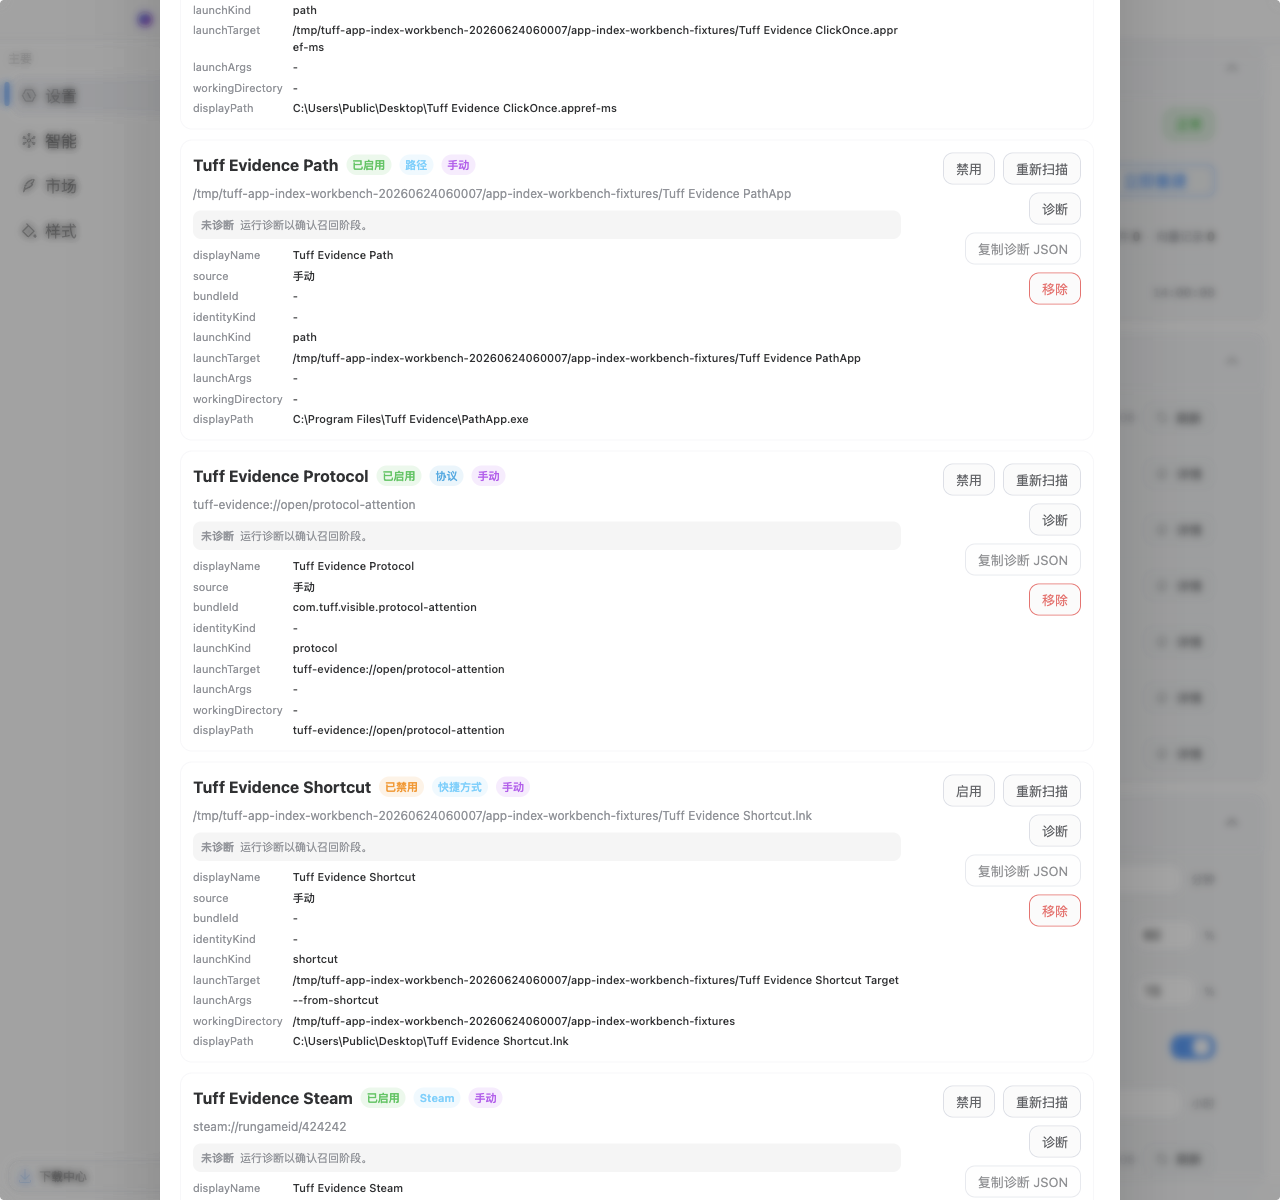
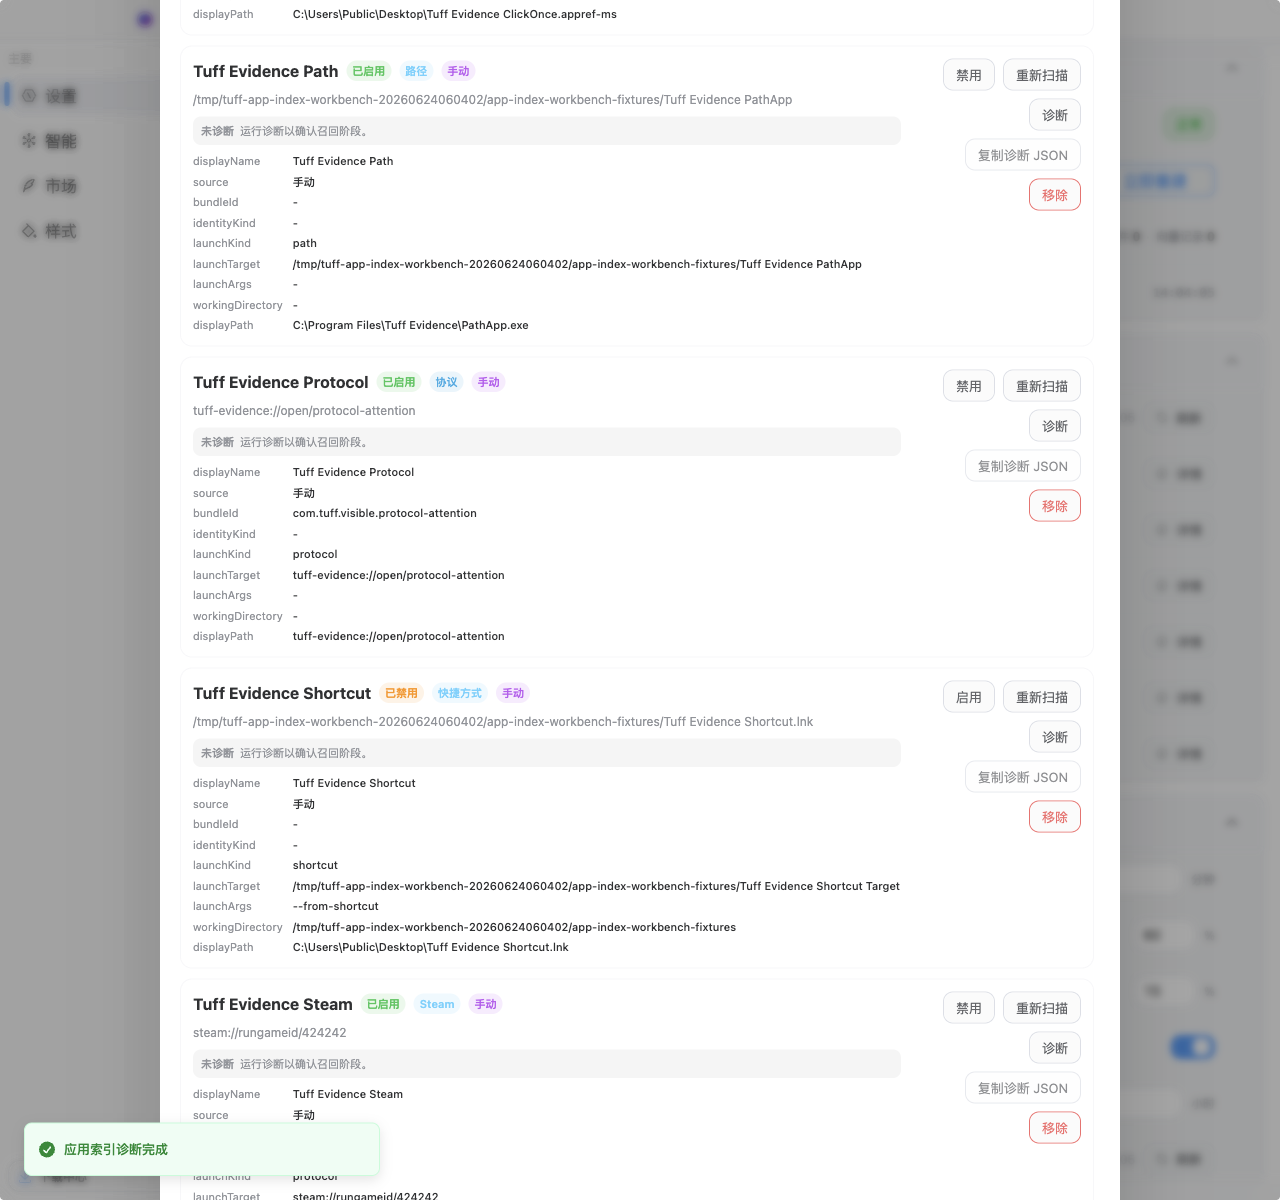
test(core-app): refresh app index workbench evidence

diff --git a/apps/core-app/src/renderer/src/views/assistant/VoicePanel.vue b/apps/core-app/src/renderer/src/views/assistant/VoicePanel.vue
@@ -530,8 +530,11 @@ onBeforeUnmount(() => {
   border-radius: 10px;
   padding: 9px 12px;
   font-size: 12px;
-  line-height: 1;
+  line-height: 1.2;
   cursor: pointer;
+  min-height: 32px;
+  max-width: 150px;
+  white-space: normal;
 }
 
 .secondary-btn {